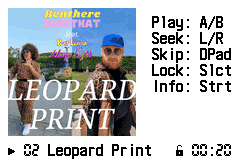
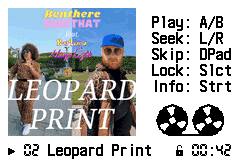
Make album art work in 256 (240) colors again

Changed region(s): [[0.6417, 0.6562, 0.9333, 0.875], [0.875, 0.875, 0.9625, 1.0]]

diff --git a/img2gba/lib-img2gba.js b/img2gba/lib-img2gba.js
@@ -11,7 +11,9 @@ const TILE_WIDTH = 8;
 const TILE_SIZE = TILE_WIDTH * TILE_WIDTH;
 const TILES_PER_BLOCK_ROW = TILE_BLOCK_WIDTH / TILE_WIDTH;
 
-const MAX_COLORS = 16;
+const PALETTE_SIZE = 256;
+const RESERVED_PALETTE_SIZE = 16;
+const MAX_COLORS = PALETTE_SIZE - RESERVED_PALETTE_SIZE;
 
 /**
  * @param {number[]} data
@@ -27,7 +29,7 @@ function quantizeData(data) {
     const colorMap = quantize(arr, MAX_COLORS);
     const newData = Array(arr.length);
     const paletteMap = new Map([[0, 0]]);
-    let paletteColorIndex = 0;
+    let paletteColorIndex = RESERVED_PALETTE_SIZE;
     for (let i = 0; i < arr.length; i++) {
         const [r, g, b] = colorMap.map(arr[i]);
         const [r_, g_, b_] = [r, g, b].map(c => c >> 3);
@@ -42,7 +44,7 @@ function quantizeData(data) {
         }
         newData[i] = pIndex;
     }
-    const palette = Array(MAX_COLORS).fill(0);
+    const palette = Array(PALETTE_SIZE).fill(0);
     for (const [color, index] of paletteMap) {
         palette[index] = color;
     }
@@ -102,7 +104,8 @@ module.exports = {
 
         return {
             palette,
-            bitmap: tiledBitmap4Bit,
+            // switch to 4 bit if we're using 16 color palettes
+            bitmap: tiledBitmap,
         }
     }
 }

diff --git a/src/art.c b/src/art.c
@@ -8,20 +8,23 @@
 
 #include "art.h"
 
-extern const unsigned short leopard_Palette[16];
-extern const unsigned char leopard_Bitmap[8192];
+// Commented is for 16 color
+// extern const unsigned short leopard_Palette[16];
+// extern const unsigned char leopard_Bitmap[8192];
+extern const unsigned short leopard_Palette[256];
+extern const unsigned char leopard_Bitmap[16384];
 
 extern const char reelTiles[256];
 
 void bitunpack2(void *restrict dst, const void *restrict src, size_t len)
 {
   BUP tilespec = {
-      .SrcNum = len, .SrcBitNum = 1, .DestBitNum = 4, .DestOffset = 0, .DestOffset0_On = 0};
+      .SrcNum = len, .SrcBitNum = 1, .DestBitNum = 8, .DestOffset = 0, .DestOffset0_On = 0};
   BitUnPack(src, dst, &tilespec);
 }
 
-// 4 * 4 * 1 (4 tile width, 4 tile height, x1 for s-tiles)
-const u16 tile_block_size = 16;
+// 4 * 4 * 2 (4 tile width, 4 tile height, x2 for d-tiles)
+const u16 tile_block_size = 32;
 
 void initArt()
 {
@@ -34,9 +37,9 @@ void initArt()
     dmaCopy(leopard_Bitmap, SPRITE_GFX, sizeof(leopard_Bitmap));
     // setup palette and tile data for reel animation
     // (use last palette to potentially allow multiple art palettes before)
-    SPRITE_PALETTE[240] = RGB5(31, 31, 31);
-    SPRITE_PALETTE[241] = RGB5(0, 0, 0);
-    bitunpack2(SPRITE_GFX + 512 * 8, reelTiles, sizeof(reelTiles));
+    SPRITE_PALETTE[0] = RGB5(31, 31, 31);
+    SPRITE_PALETTE[1] = RGB5(0, 0, 0);
+    bitunpack2(SPRITE_GFX + 512 * 16, reelTiles, sizeof(reelTiles));
     // wait for vblank so we can access OAM (and also make sure dma copy is done)
     do
     {
@@ -53,7 +56,7 @@ void initArt()
     // (album art)
     for (u16 i = 0; i < 16; i++)
     {
-        OAM[i].attr0 |= OBJ_Y(8 + (32 * (i / 4))) | ATTR0_COLOR_16 | ATTR0_SQUARE;
+        OAM[i].attr0 |= OBJ_Y(8 + (32 * (i / 4))) | ATTR0_COLOR_256 | ATTR0_SQUARE;
         OAM[i].attr1 = OBJ_X(8 + (32 * (i % 4))) | ATTR1_SIZE_32;
     }
 
@@ -62,21 +65,21 @@ void initArt()
     u16 reelAnimationY = 8 * 13;
     u16 reelAnimationX = 8 * 19 + 4;
     u16 reel_tile_offset = 16;
-    OAM[64].attr0 |= OBJ_Y(reelAnimationY) | ATTR0_COLOR_16 | ATTR0_SQUARE | ATTR0_ROTSCALE;
+    OAM[64].attr0 |= OBJ_Y(reelAnimationY) | ATTR0_COLOR_256 | ATTR0_SQUARE | ATTR0_ROTSCALE;
     OAM[64].attr1 = OBJ_X(reelAnimationX) | ATTR1_SIZE_32;
-    OAM[64].attr2 = ATTR2_PALETTE(15) | (0x01ff & ((0 + reel_tile_offset) * tile_block_size));
+    OAM[64].attr2 = (0x3FF & ((0 + reel_tile_offset) * tile_block_size));
     // Reel 2
-    OAM[65].attr0 |= OBJ_Y(reelAnimationY) | ATTR0_COLOR_16 | ATTR0_SQUARE | ATTR0_ROTSCALE;
+    OAM[65].attr0 |= OBJ_Y(reelAnimationY) | ATTR0_COLOR_256 | ATTR0_SQUARE | ATTR0_ROTSCALE;
     OAM[65].attr1 = OBJ_X(reelAnimationX + 36) | ATTR1_SIZE_32;
-    OAM[65].attr2 = ATTR2_PALETTE(15) | (0x01ff & ((0 + reel_tile_offset) * tile_block_size));
+    OAM[65].attr2 = (0x3FF & ((0 + reel_tile_offset) * tile_block_size));
     // Tape 1
-    OAM[66].attr0 |= OBJ_Y(reelAnimationY) | ATTR0_COLOR_16 | ATTR0_SQUARE;
+    OAM[66].attr0 |= OBJ_Y(reelAnimationY) | ATTR0_COLOR_256 | ATTR0_SQUARE;
     OAM[66].attr1 = OBJ_X(reelAnimationX + 15) | ATTR1_SIZE_32;
-    OAM[66].attr2 = ATTR2_PALETTE(15) | (0x01ff & ((1 + reel_tile_offset) * tile_block_size));
+    OAM[66].attr2 = (0x3FF & ((1 + reel_tile_offset) * tile_block_size));
     // Tape 2 (overlaps)
-    OAM[66].attr0 |= OBJ_Y(reelAnimationY) | ATTR0_COLOR_16 | ATTR0_SQUARE;
-    OAM[66].attr1 = OBJ_X(reelAnimationX + 17) | ATTR1_SIZE_32;
-    OAM[66].attr2 = ATTR2_PALETTE(15) | (0x01ff & ((1 + reel_tile_offset) * tile_block_size));
+    OAM[67].attr0 |= OBJ_Y(reelAnimationY) | ATTR0_COLOR_256 | ATTR0_SQUARE;
+    OAM[67].attr1 = OBJ_X(reelAnimationX + 17) | ATTR1_SIZE_32;
+    OAM[67].attr2 = (0x3FF & ((1 + reel_tile_offset) * tile_block_size));
 }
 
 void drawArt(GsmPlaybackTracker *playback)
@@ -101,7 +104,7 @@ void drawArt(GsmPlaybackTracker *playback)
         ObjAffineSource affineSrc;
         affineSrc.sX = 0x100;
         affineSrc.sY = 0x100;
-        affineSrc.theta = playback->reel_rotation_theta + (1 << 13) * (i - 64);
+        affineSrc.theta = playback->reel_rotation_theta;
         ObjAffineSet(&affineSrc, &((OBJAFFINE*)OAM)[i].pa, 1, 8);
     }
 }
